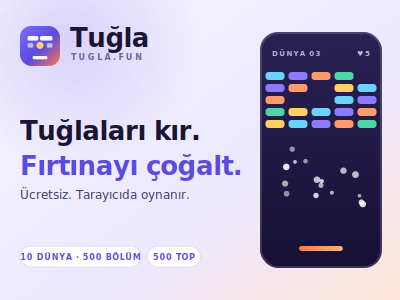
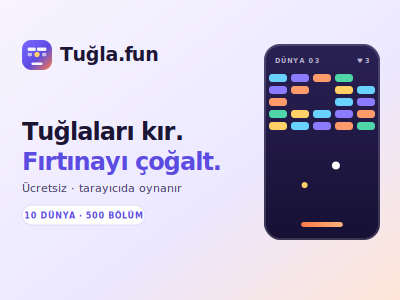
fix: skor gönderimi 413, bölüm listesinin yenilenmemesi ve açılış ralisi (API, engine, web, marka) · v2.9
- 413 PAYLOAD TOO LARGE: uzun oyunlarda tekrar paketi varsayılan 100 kB gövde
  sınırını aşıyor ve skor kayboluyordu. Gövde sınırı Nest üzerinden 8 MB'a
  çıkarıldı (express doğrudan bağımlılık yapılmadan) ve tekrar kaydı aynı tik
  içindeki girdileri üzerine yazıyor: 60 bin tiklik oyun 61 KB
- bölüm listesi oyundan sonra yeniden çekiliyor: kilit sunucuda açılıyordu ama
  ekrandaki liste oyundan önceki kopyaydı, bu yüzden 'yeni bölüm açılmıyor'
  görünüyordu. Kilit mantığının kendisi uçtan uca doğrulandı (1 tamamlanınca 2
  açılıyor, 3 kilitli kalıyor, kilitli bölüm için oturum 400 dönüyor)
- auth hız sınırı çarpanı (AUTH_RATE_LIMIT_FACTOR) eklendi: üretim varsayılanı 1,
  otomatik testler tek adresten tekrar tekrar koşabilsin diye smoke 1000 kullanıyor
- açılış ralisi: top katmanı kartın tamamını kaplıyor, toplar artık üstteki
  tuğlalara ve alttaki platforma değiyor
- açılış düzeni: iki sütun aynı yükseklikte, bölüm başlığı kart ızgarasıyla aynı
  genişlikte
- 400x300 listeleme görseli revize edildi: dizinin 'YENİ' rozeti ve alt gradyanı
  içeriği kapatıyordu; sol üst köşe ve alt 58 piksel artık bilinçli olarak boş
- sürüm 2.9.0

diff --git a/apps/web/app/styles.css b/apps/web/app/styles.css
@@ -321,11 +321,12 @@ code {
 }
 .hero {
   display: grid;
-  /* Equal columns: the message block matches the playfield card, so the two
-     halves read as one composition instead of a wide column beside a small one. */
+  /* Equal columns *and* equal height: stretching both halves keeps the message
+     block and the playfield card the same size, which is what stops one side
+     looking larger than the other. */
   grid-template-columns: 1fr 1fr;
   gap: 40px;
-  align-items: center;
+  align-items: stretch;
   justify-items: center;
   padding: 40px 20px 56px;
 }
@@ -334,6 +335,7 @@ code {
   flex-direction: column;
   gap: 18px;
   align-items: center;
+  justify-content: center;
   text-align: center;
   /* Identical measure to the playfield card so neither half dominates. */
   width: min(400px, 100%);
@@ -402,7 +404,7 @@ code {
 .game-preview {
   position: relative;
   width: min(400px, 100%);
-  aspect-ratio: 9 / 14;
+  aspect-ratio: 9 / 13;
   border-radius: var(--radius-lg);
   padding: 16px;
   background: linear-gradient(180deg, var(--stage-top), var(--stage-bottom));
@@ -476,10 +478,14 @@ code {
   background: linear-gradient(180deg, #ffe08a, #ffc23f);
 }
 
-/* The rally: ball and paddle run on the same 6s clock. */
+/* The rally.
+   The ball layer covers the entire card rather than only the empty middle:
+   previously it sat between the brick grid and the paddle, so the balls could
+   never touch either of them. */
 .preview-field {
-  position: relative;
-  flex: 1;
+  position: absolute;
+  inset: 54px 16px 26px;
+  pointer-events: none;
 }
 .preview-ball {
   position: absolute;
@@ -529,14 +535,19 @@ code {
 }
 @keyframes rally-y {
   from {
-    top: 2%;
+    /* Bottom edge of the brick wall. */
+    top: 0%;
   }
   to {
-    /* Stops exactly on the paddle face, so the bounce looks like contact. */
+    /* Paddle face, so the bounce reads as contact. */
     top: calc(100% - 11px);
   }
 }
 .preview-paddle {
+  position: absolute;
+  left: 16px;
+  right: 16px;
+  bottom: 14px;
   height: 11px;
   width: 34%;
   border-radius: 999px;
@@ -609,15 +620,15 @@ code {
   text-align: center;
 }
 .world-section h2 {
-  /* Kept to the measure of the card grid below, so the block reads as one
-     column instead of a wide banner over narrow cards. */
+  /* Full measure of the grid above and below, so the three blocks line up as
+     one column instead of a narrow band between wide cards. */
   font-size: clamp(1.15rem, 2.2vw, 1.6rem);
   font-weight: 800;
-  margin: 10px auto 0;
-  max-width: 46ch;
+  margin: 10px 0 0;
+  max-width: none;
 }
 .world-section > div:first-child {
-  max-width: 640px;
+  width: 100%;
 }
 .world-cards {
   display: grid;

diff --git a/packages/game-engine/src/engine.ts b/packages/game-engine/src/engine.ts
@@ -207,7 +207,24 @@ export class TuğlaEngine {
   private record(kind: ReplayInput['k'], value: number) {
     if (!this.recordReplay) return;
     if (this.inputs.length >= 20000) return;
-    this.inputs.push({ t: this.snapshot.tick, k: kind, v: Number(value.toFixed(4)) });
+
+    const quantised = Number(value.toFixed(4));
+    const last = this.inputs.at(-1);
+
+    // A pointer fires many moves between two ticks, and the replay applies them
+    // in order at the same tick — so only the last one can matter. Overwriting
+    // instead of appending keeps the payload proportional to game length rather
+    // than to how fast the device samples the pointer, which is what pushed long
+    // games past the request size limit.
+    if (last && last.t === this.snapshot.tick && last.k === kind) {
+      last.v = quantised;
+      return;
+    }
+    // An unchanged target is a no-op for the simulation; recording it only makes
+    // the replay bigger.
+    if (last && last.k === kind && last.v === quantised && kind === 'm') return;
+
+    this.inputs.push({ t: this.snapshot.tick, k: kind, v: quantised });
   }
 
   // ----- public control surface -------------------------------------------------

diff --git a/apps/web/app/play/page.tsx b/apps/web/app/play/page.tsx
@@ -84,10 +84,28 @@ function PlayInner() {
     }
   }, []);
 
-  const handleExit = useCallback((_summary: CompletionSummary | null) => {
-    setSession(null);
-    setOfflineQueued(pendingOfflineRuns());
-  }, []);
+  const handleExit = useCallback(
+    (summary: CompletionSummary | null) => {
+      setSession(null);
+      setOfflineQueued(pendingOfflineRuns());
+
+      // Finishing a level unlocks the next one server-side, but the grid in
+      // front of the player is the copy fetched before the game started — so
+      // without this refetch the next level stayed locked until a manual
+      // reload, which read as "the level did not unlock".
+      if (summary?.accepted) {
+        void gameApi
+          .levels(world, 50)
+          .then((result) => setLevels(result.items))
+          .catch(() => undefined);
+        void gameApi
+          .daily()
+          .then(setDaily)
+          .catch(() => undefined);
+      }
+    },
+    [world],
+  );
 
   if (loading || (!user && typeof window !== 'undefined')) {
     return (

diff --git a/apps/api/src/main.ts b/apps/api/src/main.ts
@@ -39,6 +39,12 @@ async function bootstrap() {
       crossOriginResourcePolicy: { policy: 'cross-origin' },
     }),
   );
+  // Replay payloads are the largest thing this API accepts: a long game records
+  // thousands of paddle inputs, and the default 100 kB body limit rejected them
+  // with 413 — the score was lost and the level never counted as finished.
+  // Configured through Nest so express stays a transitive dependency.
+  app.useBodyParser('json', { limit: '8mb' });
+  app.useBodyParser('urlencoded', { limit: '1mb', extended: true });
   app.use(cookieParser());
   app.use((request: Request, response: Response, next: NextFunction) => {
     const requestId = request.header('x-request-id') ?? randomUUID();

diff --git a/apps/api/src/config/env.ts b/apps/api/src/config/env.ts
@@ -18,6 +18,11 @@ const schema = z.object({
   RATE_LIMIT_BURST_SECONDS: z.coerce.number().int().min(1).max(3600).default(1),
   RATE_LIMIT_SUSTAINED: z.coerce.number().int().min(1).max(1000000).default(1200),
   RATE_LIMIT_SUSTAINED_SECONDS: z.coerce.number().int().min(1).max(86400).default(60),
+  // Multiplies the auth-specific limits (registrations, login attempts, reset
+  // requests). Must stay 1 in production; it exists so automated suites can
+  // exercise the flows repeatedly from one address without weakening the
+  // shipped defaults.
+  AUTH_RATE_LIMIT_FACTOR: z.coerce.number().int().min(1).max(10000).default(1),
 
   APP_NAME: z.string().min(1).default('Tuğla'),
   APP_SLUG: z

diff --git a/apps/api/src/modules/auth.ts b/apps/api/src/modules/auth.ts
@@ -85,7 +85,8 @@ export class AuthService {
    */
   private async guardRate(bucket: string, identity: string, limit: number, windowSeconds: number) {
     const count = await this.redis.increment(`rate:${bucket}:${identity}`, windowSeconds);
-    if (count !== null && count > limit) {
+    const effectiveLimit = limit * env().AUTH_RATE_LIMIT_FACTOR;
+    if (count !== null && count > effectiveLimit) {
       throw new TooManyRequestsException('Too many attempts, please wait and try again');
     }
   }

diff --git a/README.md b/README.md
@@ -85,6 +85,17 @@ JSON-LD bu dosyaları kullanır. Oyun listeleme siteleri için **4:3** görsel:
 `https://tugla.fun/brand/logo-512.png`.
 Ayrıntı: `apps/web/public/brand/README.md`.
 
+### Skor gönderimi ve boyut sınırı
+
+Uzun bir oyun binlerce platform girdisi kaydeder. İki şey düzeltildi: tekrar kaydı artık aynı tik
+içindeki girdileri üzerine yazıyor (aynı tikteki son girdi dışındakiler simülasyonu etkilemez), yani
+paket boyutu cihazın işaretçi örnekleme hızıyla değil oyun uzunluğuyla orantılı; API gövde sınırı da
+8 MB'a çıkarıldı. Önceden uzun oyunlar 413 ile reddediliyor, skor kayboluyordu.
+
+Bölüm listesi, oyun bittikten sonra yeniden çekilir: kilit sunucuda açılıyordu ama oyuncunun
+ekranındaki liste oyundan önce alınmış kopyaydı, bu yüzden yeni bölüm ancak sayfa yenilenince
+açılmış görünüyordu.
+
 ### Skor doğrulama gerileme kaydı
 
 Dürüst oyuncular bir süre `replay-score-mismatch` ile reddedildi. Sebep: platform hedefi tekrar
